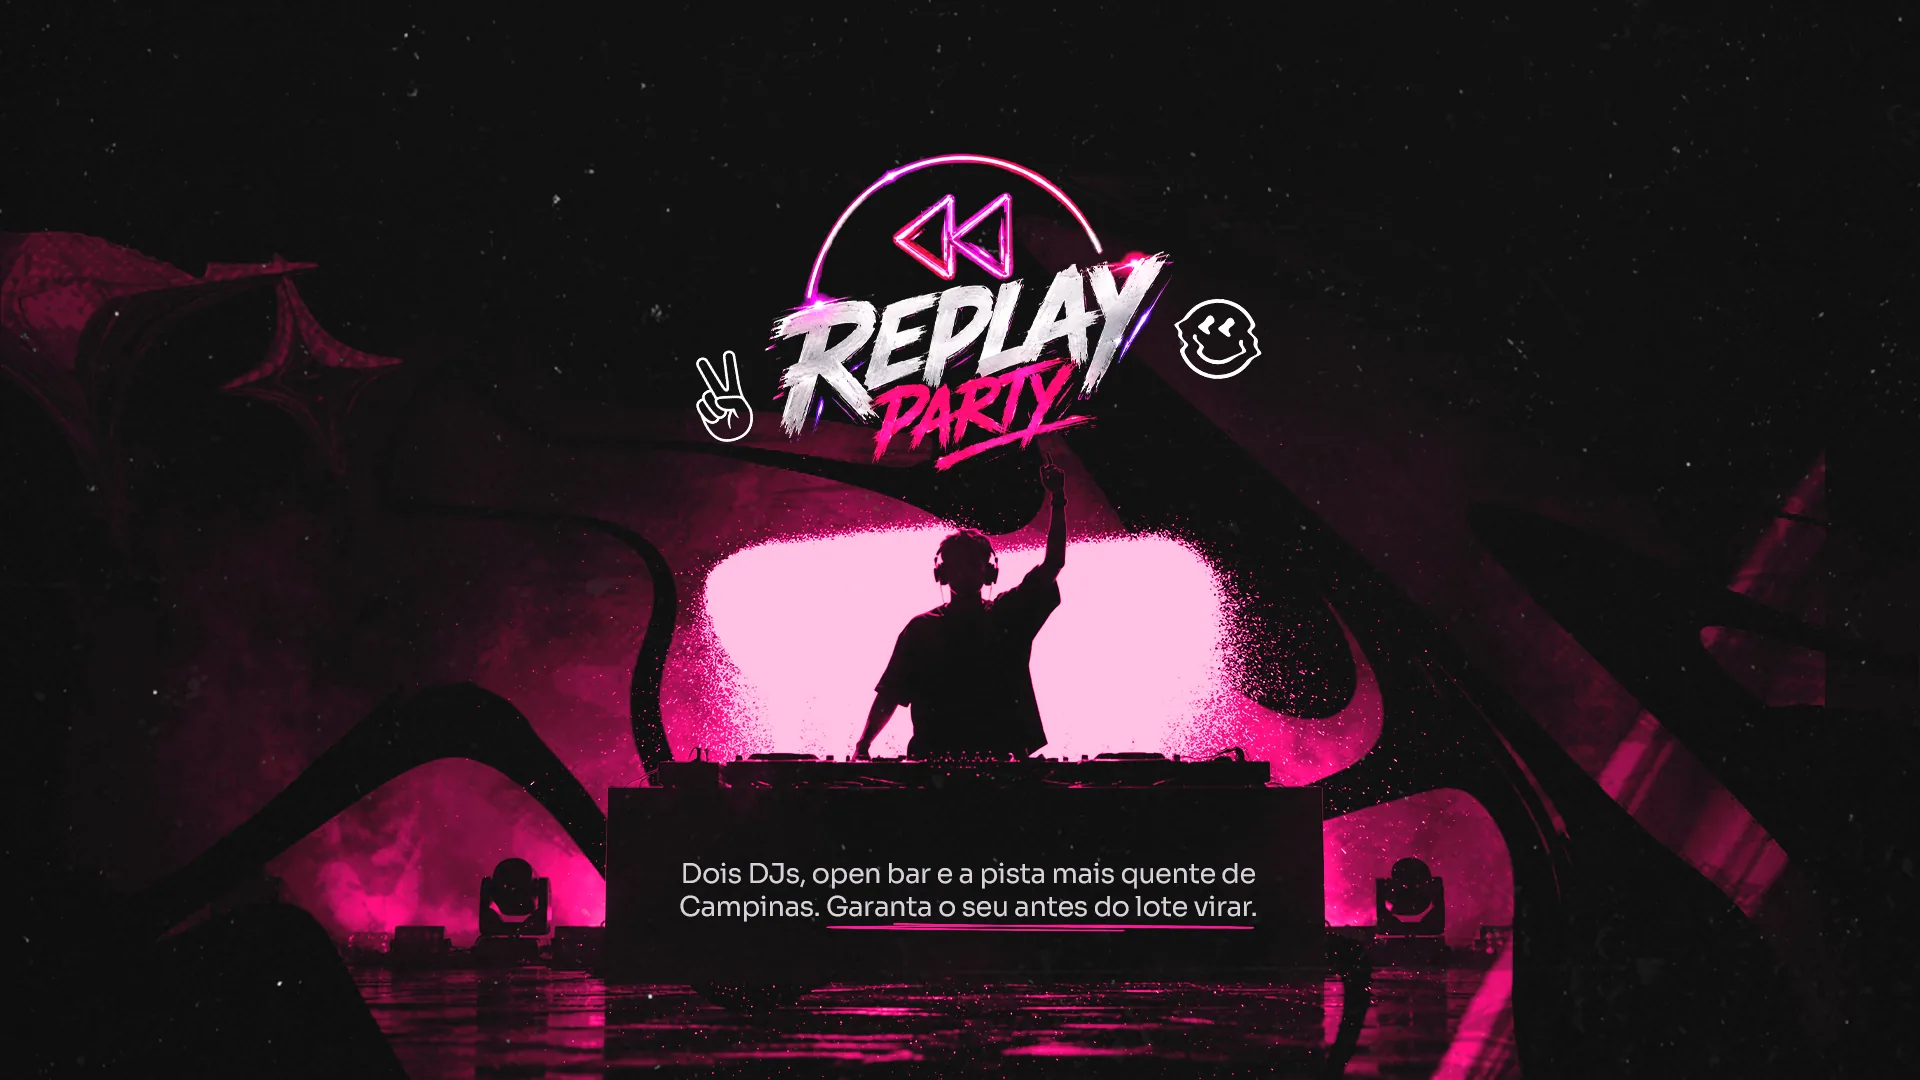
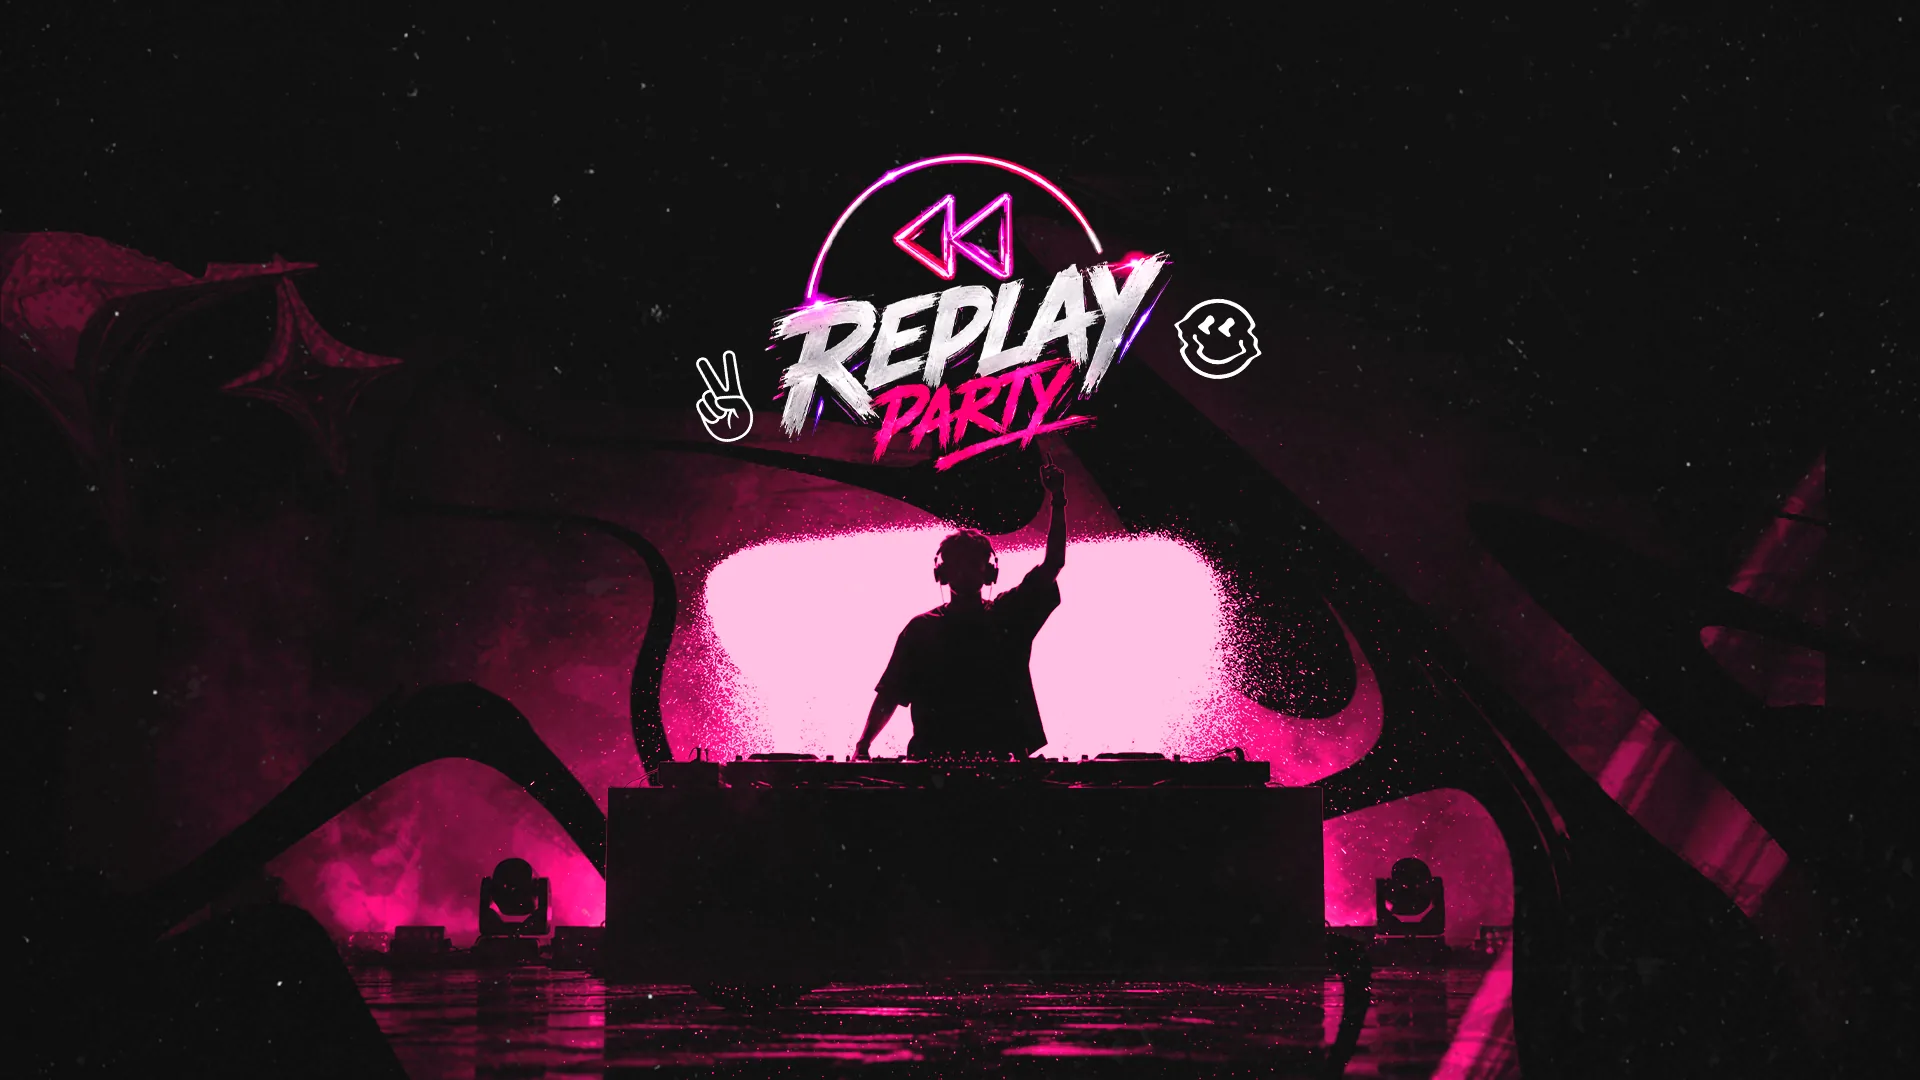
feat: hero com imagens responsivas (desktop + mobile) otimizadas em WebP
Fundo e DJ trocam de imagem por breakpoint (md): desktop usa as horizontais, celular usa as verticais. Novas: fundo-celular.webp, dj-celular.webp.

Changed region(s): [[0.3438, 0.7944, 0.6562, 0.8861]]

diff --git a/src/components/hero.tsx b/src/components/hero.tsx
@@ -24,7 +24,8 @@ export function Hero() {
     <section id="inicio" ref={ref} className="relative min-h-[100dvh] overflow-hidden bg-ink">
       {/* Layer 1 — background photo (already color-graded by the client) */}
       <motion.div style={{ y }} className="absolute inset-0 z-0">
-        <Image src="/fundo.webp" alt="" fill priority sizes="100vw" className="object-cover object-[center_60%]" />
+        <Image src="/fundo.webp" alt="" fill priority sizes="100vw" className="hidden object-cover object-[center_60%] md:block" />
+        <Image src="/fundo-celular.webp" alt="" fill priority sizes="100vw" className="object-cover object-center md:hidden" />
       </motion.div>
 
       {/* Darken top + bottom for text legibility, keep the middle clear */}
@@ -44,7 +45,8 @@ export function Hero() {
 
       {/* Layer 3 — DJ cut-out, aligned with the background */}
       <motion.div style={{ y }} className="absolute inset-0 z-20">
-        <Image src="/dj.webp" alt="DJ no palco" fill priority sizes="100vw" className="object-cover object-[center_60%]" />
+        <Image src="/dj.webp" alt="DJ no palco" fill priority sizes="100vw" className="hidden object-cover object-[center_60%] md:block" />
+        <Image src="/dj-celular.webp" alt="DJ no palco" fill priority sizes="100vw" className="object-cover object-center md:hidden" />
       </motion.div>
 
       {/* Layer 4 — band in front of the DJ (crosses the first to form an X) */}